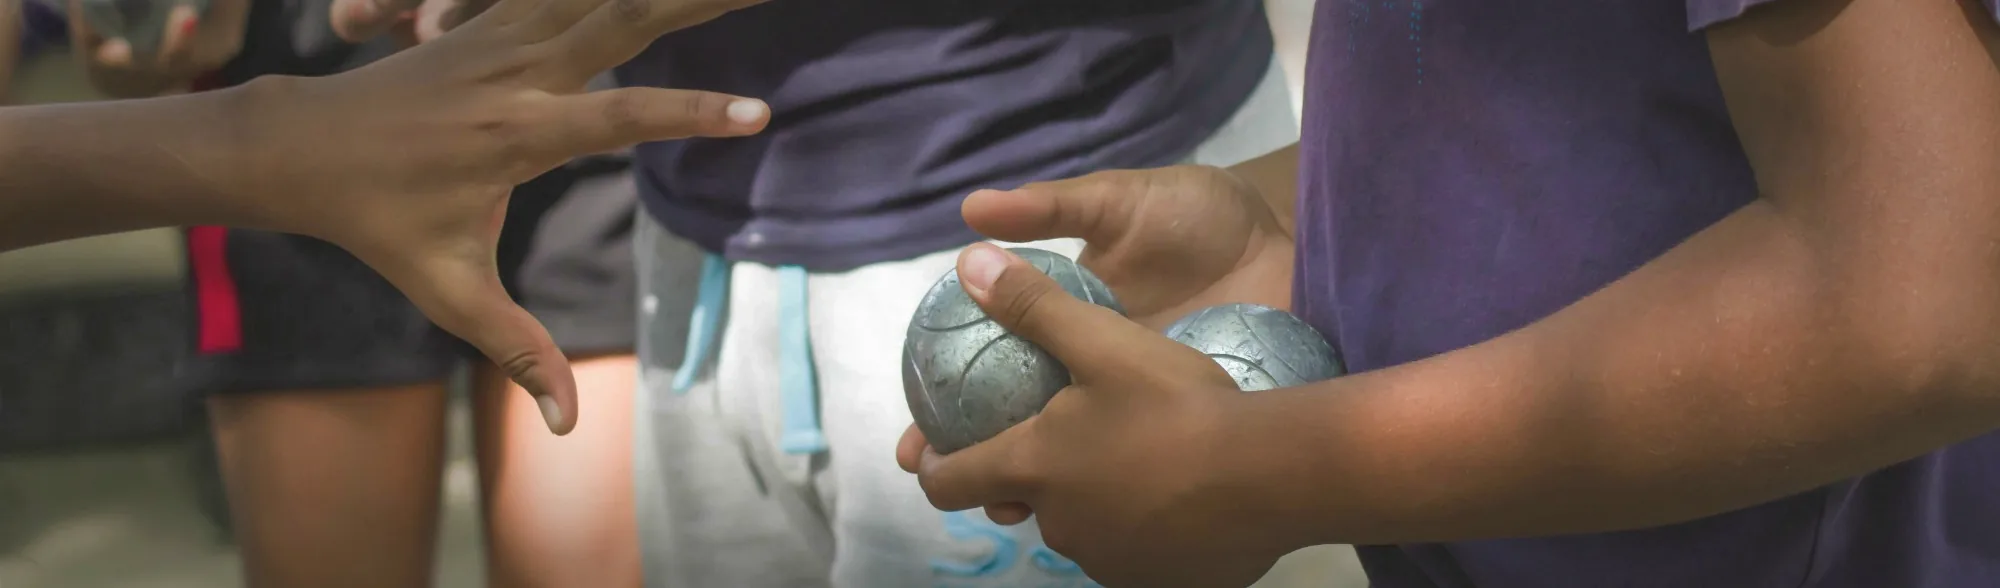
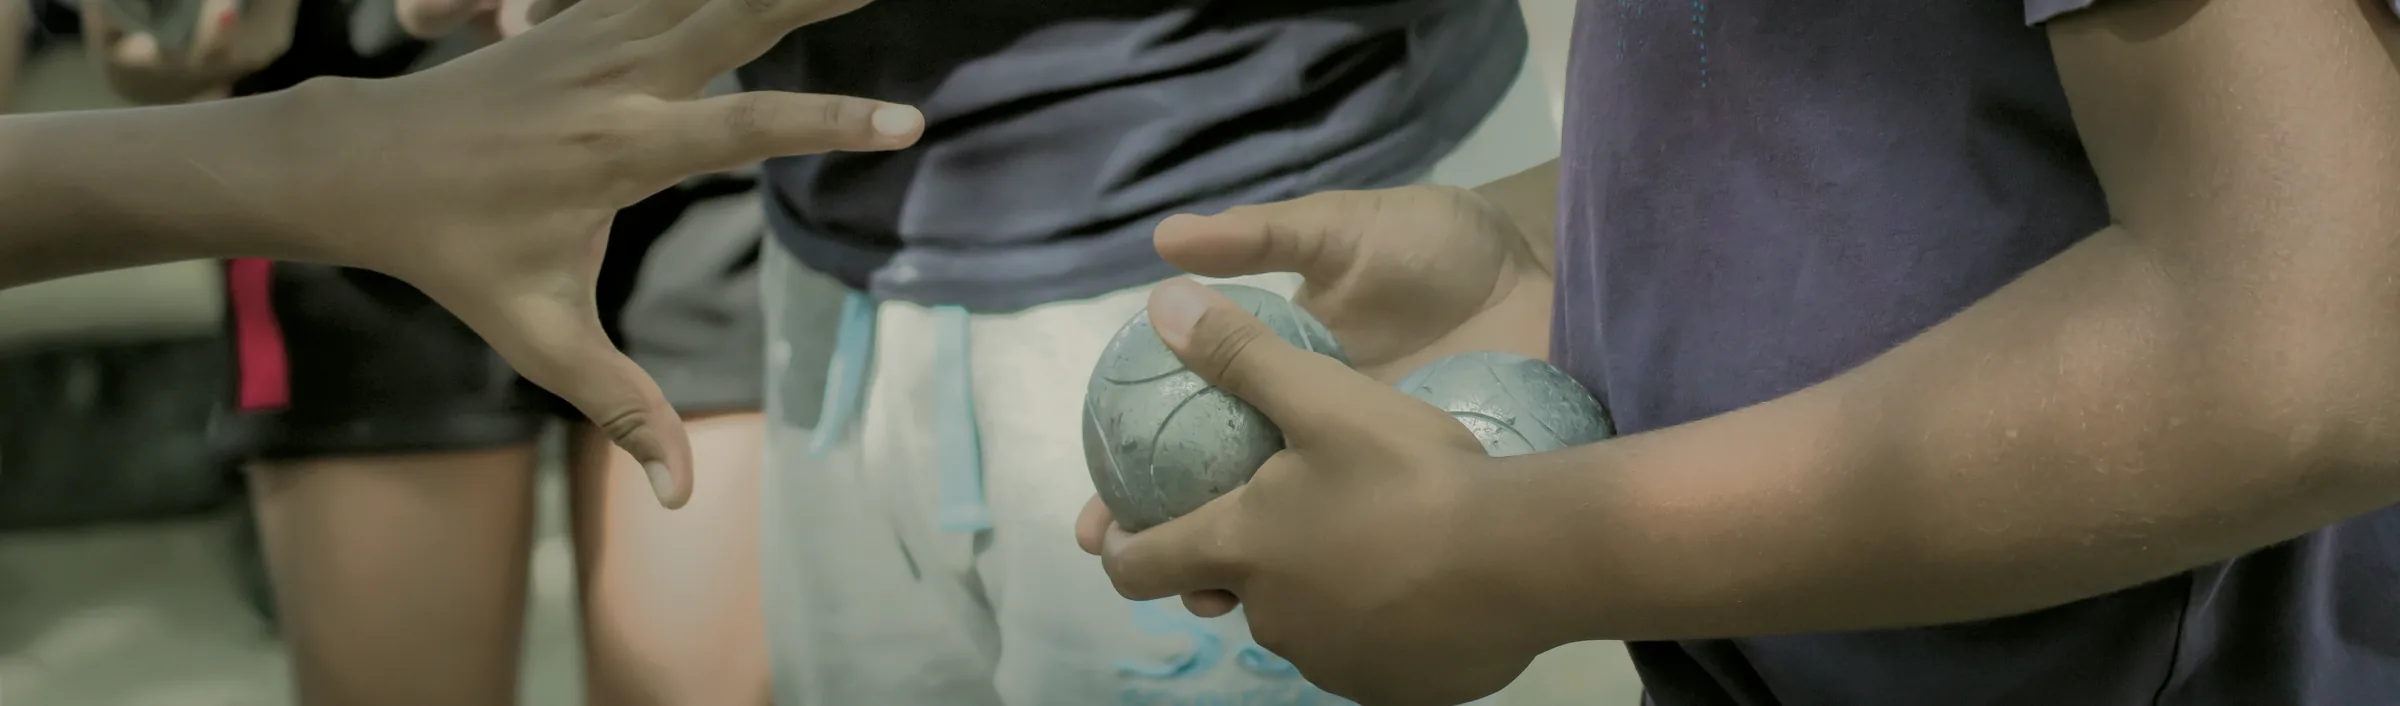
Bannières harmonisées sur un rendu commun, refaites depuis les photos d'origine
- Accueil, compteur de points, comment jouer, la pétanque et à propos refaites à partir des
  photos originales en pleine résolution (comment jouer : nouvelle photo de Norbert Nagel,
  Mörfelden-Walldorf 2026, même auteur et même licence).
- preparer_banniere.py vise désormais un rendu final plutôt qu'un traitement identique :
  répartition des tons, dominante des ombres, tons moyens et lumières, et saturation sont
  calées sur des cibles fixes (intensité « douce »), chaque photo étant corrigée autant qu'il
  le faut. Les noirs ne restent plus gris et les dominantes (photo bleutée, trop jaune) sont
  unifiées.

Claude-Session: https://claude.ai/code/session_018rzKjBsKWQCLUkhJysryMg

diff --git a/scripts/preparer_banniere.py b/scripts/preparer_banniere.py
@@ -1,35 +1,69 @@
-"""Prépare une bannière de page : recadrage en bandeau, vignettage, harmonisation des couleurs.
+"""Prépare une bannière de page : recadrage en bandeau, vignettage, puis retouche vers un rendu commun.
 
-La référence est la bannière de l'accueil (images/banniere-accueil.webp) : chaque bannière
-traitée reprend sa luminosité moyenne, son contraste et sa saturation, pour que toutes les
-pages aient le même rendu quelle que soit la photo d'origine.
+La retouche ne consiste pas à appliquer les mêmes réglages à toutes les photos : elle fixe le rendu
+final à atteindre (répartition des tons, dominante de couleur dans les ombres, les tons moyens et les
+lumières, saturation) et corrige chaque photo autant qu'il le faut pour y arriver. Une photo terne,
+bleutée ou trop jaune ressort donc comme les autres. Ce rendu cible est l'intensité « douce » choisie
+en octobre 2026, calée sur les anciennes bannières de l'accueil et du compteur de points.
 
-Exemples (depuis la racine du projet) :
-    # Nouvelle photo : recadrage centré à 55 % de la hauteur + vignettage
-    python scripts/preparer_banniere.py photo.jpg banniere-compteur.webp --centre 0.55 --vignette
-    # Bannière existante : seulement l'harmonisation des couleurs
-    python scripts/preparer_banniere.py images/banniere-faq.webp banniere-faq.webp
+Toujours partir de la photo d'origine (pleine résolution), jamais d'une bannière déjà retouchée.
+Nécessite Pillow et numpy (pip install pillow numpy).
+
+Exemple (depuis la racine du projet) :
+    python scripts/preparer_banniere.py photo.jpg banniere-compteur.webp --centre 0.71
+
+Réglages utilisés pour les bannières actuelles (photos d'origine, voir les crédits sur chaque page) :
+    accueil        Jean-Claude Parayre                          --centre 0.5
+    compteur       elderly-friends-playing-petanque (Magnific)  --centre 0.71
+    comment-jouer  Boule Stadtmeisterschaft 2026 (N. Nagel)     --centre 0.66
+    la-petanque    Mondial La Marseillaise 2022 (M. Casamance)  --centre 0.55
+    a-propos       petanque-3629216 (jackmac34, Pixabay)        --centre 0.55
 """
 
 import argparse
 import os
 
-from PIL import Image, ImageEnhance, ImageStat
+import numpy as np
+from PIL import Image, ImageOps
 
 RACINE = os.path.dirname(os.path.dirname(os.path.abspath(__file__)))
 DOSSIER_IMAGES = os.path.join(RACINE, "images")
-REFERENCE = os.path.join(DOSSIER_IMAGES, "banniere-accueil.webp")
 
-# Proportions des bannières existantes (2400 × ~700) et largeur maximale
+# Proportions des bannières (2400 × ~700) et largeur maximale
 RATIO = 3.4
 LARGEUR_MAX = 2400
 
+# Rendu visé. Répartition des tons : luminosité (sur 255) atteinte par 0 %, 2,5 %, 5 %… 100 % des
+# pixels (le dernier repère est pris à 99,9 % pour ignorer quelques reflets isolés).
+REPERES_TONS = [0, 7, 16, 23, 29, 35, 42, 49, 54, 58, 62, 66, 69, 72, 76, 79, 82, 84, 86, 89, 91,
+                94, 97, 99, 102, 106, 108, 112, 115, 118, 122, 126, 130, 135, 140, 144, 148, 153, 158,
+                169, 201]
+# Dominante visée dans les ombres, les tons moyens et les lumières : écart du rouge, du vert et du
+# bleu à la luminosité (sur 1). Bleu négatif = lumière chaude.
+DOMINANTES = [(0.000, 0.006, -0.035), (0.015, 0.006, -0.070), (0.020, 0.004, -0.060)]
+# Saturation moyenne visée dans les tons moyens (0 à 1)
+SATURATION = 0.24
+# Assombrissement des bords (0 = aucun)
+VIGNETTAGE = 0.30
 
-def mesurer(image):
-    """Luminance moyenne, écart-type de la luminance (contraste) et saturation moyenne."""
-    luminance = ImageStat.Stat(image.convert("L"))
-    saturation = ImageStat.Stat(image.convert("HSV").getchannel("S"))
-    return luminance.mean[0], luminance.stddev[0], saturation.mean[0]
+# Axes de correction des couleurs : chaud/froid (rouge contre bleu), corrigé entièrement, et
+# vert/magenta, corrigé à moitié pour ne pas teinter un gravier neutre quand la photo est pleine de
+# feuillage.
+AXE_CHALEUR = np.array([1.0, 0.0, -1.0]) / np.sqrt(2)
+AXE_TEINTE = np.array([-0.5, 1.0, -0.5]) / np.sqrt(1.5)
+PART_TEINTE = 0.5
+
+QUANTILES = np.linspace(0, 1, 1001)
+CIBLE_TONS = np.interp(QUANTILES, np.linspace(0, 1, len(REPERES_TONS)), np.array(REPERES_TONS) / 255)
+
+
+def luminance(a):
+    return 0.299 * a[..., 0] + 0.587 * a[..., 1] + 0.114 * a[..., 2]
+
+
+def saturation(a):
+    maxi, mini = a.max(-1), a.min(-1)
+    return np.where(maxi > 0, (maxi - mini) / np.maximum(maxi, 1e-6), 0)
 
 
 def recadrer(image, centre):
@@ -41,59 +75,98 @@ def recadrer(image, centre):
     return image.crop((0, haut, largeur, haut + hauteur_bandeau))
 
 
-def vignetter(image, force=0.35):
-    """Assombrit doucement les bords, comme sur les autres bannières."""
-    largeur, hauteur = image.size
-    petit = Image.new("L", (200, 200))
-    petit.putdata([
-        round(255 * (1 - force * min(1, ((x - 99.5) / 99.5) ** 2 + ((y - 99.5) / 99.5) ** 2) ** 1.5))
-        for y in range(200) for x in range(200)
-    ])
-    masque = petit.resize((largeur, hauteur), Image.BILINEAR)
-    noir = Image.new("RGB", image.size, (0, 0, 0))
-    return Image.composite(image, noir, masque)
+def vignetter(a, force):
+    """Assombrit doucement les bords."""
+    hauteur, largeur = a.shape[:2]
+    y, x = np.mgrid[0:hauteur, 0:largeur]
+    distance = np.minimum(1, ((x / (largeur - 1) - 0.5) * 2) ** 2 + ((y / (hauteur - 1) - 0.5) * 2) ** 2) ** 1.5
+    return a * (1 - force * distance)[..., None]
 
 
-def harmoniser(image, cible):
-    """Ajuste luminance (moyenne et écart-type) puis saturation pour rejoindre la cible."""
-    lum_cible, contraste_cible, sat_cible = cible
-    for _ in range(4):
-        lum, contraste, sat = mesurer(image)
-        y, cb, cr = image.convert("YCbCr").split()
-        k = contraste_cible / contraste
-        y = y.point(lambda v: max(0, min(255, round((v - lum) * k + lum_cible))))
-        image = Image.merge("YCbCr", (y, cb, cr)).convert("RGB")
-        sat = mesurer(image)[2]
-        image = ImageEnhance.Color(image).enhance(sat_cible / sat)
-    return image
+def poids_bandes(lum):
+    """Part de chaque pixel dans les ombres, les tons moyens et les lumières (transitions douces)."""
+    ombres = np.clip(1 - lum / 0.4, 0, 1)
+    lumieres = np.clip((lum - 0.5) / 0.4, 0, 1)
+    return ombres, np.clip(1 - ombres - lumieres, 0, 1), lumieres
+
+
+def dominantes(a):
+    lum = luminance(a)
+    ecarts = a - lum[..., None]
+    return [(ecarts * p[..., None]).sum((0, 1)) / max(p.sum(), 1) for p in poids_bandes(lum)]
+
+
+def caler_tons(a):
+    """Donne à la luminosité la répartition visée, en gardant teinte et saturation."""
+    lum = luminance(a)
+    rang = np.interp(lum, np.quantile(lum, QUANTILES), QUANTILES)
+    cible = np.interp(rang, QUANTILES, CIBLE_TONS)
+    return np.clip(a * (cible / np.maximum(lum, 1e-4))[..., None], 0, 1)
+
+
+def caler_couleurs(a):
+    """Amène la dominante de chaque bande de tons sur la dominante visée."""
+    lum = luminance(a)
+    for poids, actuelle, visee in zip(poids_bandes(lum), dominantes(a), DOMINANTES):
+        ecart = np.array(visee) - actuelle
+        ecart = AXE_CHALEUR * (ecart @ AXE_CHALEUR) + PART_TEINTE * AXE_TEINTE * (ecart @ AXE_TEINTE)
+        a = a + poids[..., None] * ecart
+    return np.clip(a, 0, 1)
+
+
+def caler_saturation(a):
+    lum = luminance(a)
+    tons_moyens = (lum > 0.2) & (lum < 0.8)
+    k = SATURATION / max(saturation(a)[tons_moyens].mean(), 1e-3)
+    return np.clip(lum[..., None] + (a - lum[..., None]) * k, 0, 1)
+
+
+def retoucher(image, vignettage):
+    a = np.asarray(image, dtype=np.float32) / 255
+    if vignettage:
+        a = vignetter(a, vignettage)
+    # Chaque correction dérange un peu les autres : quelques passages suffisent à toutes les tenir
+    for _ in range(3):
+        a = caler_couleurs(caler_tons(a))
+        a = caler_saturation(a)
+    a = caler_tons(a)
+    return Image.fromarray((a * 255 + 0.5).astype(np.uint8))
+
+
+def mesurer(image):
+    """Noirs, médiane, blancs (1 %, 50 %, 99 % des pixels, sur 255), chaleur et saturation."""
+    a = np.asarray(image, dtype=np.float32) / 255
+    lum = luminance(a)
+    noirs, mediane, blancs = np.quantile(lum, [0.01, 0.5, 0.99]) * 255
+    moyens = dominantes(a)[1]
+    tons_moyens = (lum > 0.2) & (lum < 0.8)
+    return noirs, mediane, blancs, (moyens[0] - moyens[2]) * 255, saturation(a)[tons_moyens].mean() * 100
 
 
 def main():
     parser = argparse.ArgumentParser(description=__doc__, formatter_class=argparse.RawDescriptionHelpFormatter)
     parser.add_argument("source", help="photo d'origine")
-    parser.add_argument("sortie", help="nom du fichier écrit dans images/ (ex. banniere-faq.webp)")
-    parser.add_argument("--centre", type=float, help="recadre en bandeau centré à cette hauteur (0 à 1)")
-    parser.add_argument("--vignette", action="store_true", help="ajoute un léger vignettage")
+    parser.add_argument("sortie", help="nom du fichier écrit dans images/ (ex. banniere-compteur.webp)")
+    parser.add_argument("--centre", type=float, default=0.5,
+                        help="hauteur du centre du bandeau dans la photo, de 0 (haut) à 1 (bas) ; 0.5 par défaut")
+    parser.add_argument("--vignette", type=float, default=VIGNETTAGE,
+                        help=f"force de l'assombrissement des bords, 0 pour aucun ; {VIGNETTAGE} par défaut")
     args = parser.parse_args()
 
-    image = Image.open(args.source).convert("RGB")
-    if args.centre is not None:
-        image = recadrer(image, args.centre)
+    image = ImageOps.exif_transpose(Image.open(args.source)).convert("RGB")
+    image = recadrer(image, args.centre)
     if image.width > LARGEUR_MAX:
         image = image.resize((LARGEUR_MAX, round(image.height * LARGEUR_MAX / image.width)), Image.LANCZOS)
-    if args.vignette:
-        image = vignetter(image)
 
-    cible = mesurer(Image.open(REFERENCE).convert("RGB"))
     avant = mesurer(image)
-    image = harmoniser(image, cible)
+    image = retoucher(image, args.vignette)
     apres = mesurer(image)
 
     chemin = os.path.join(DOSSIER_IMAGES, args.sortie)
     image.save(chemin, "WEBP", quality=82, method=6)
     print(f"{args.sortie} : {image.width} × {image.height}, {os.path.getsize(chemin) // 1024} Ko")
-    for nom, a, b, c in zip(("luminosité", "contraste", "saturation"), avant, apres, cible):
-        print(f"  {nom} : {a:.0f} -> {b:.0f} (référence {c:.0f})")
+    for nom, a, b in zip(("noirs", "médiane", "blancs", "chaleur", "saturation"), avant, apres):
+        print(f"  {nom} : {a:.0f} -> {b:.0f}")
 
 
 if __name__ == "__main__":
